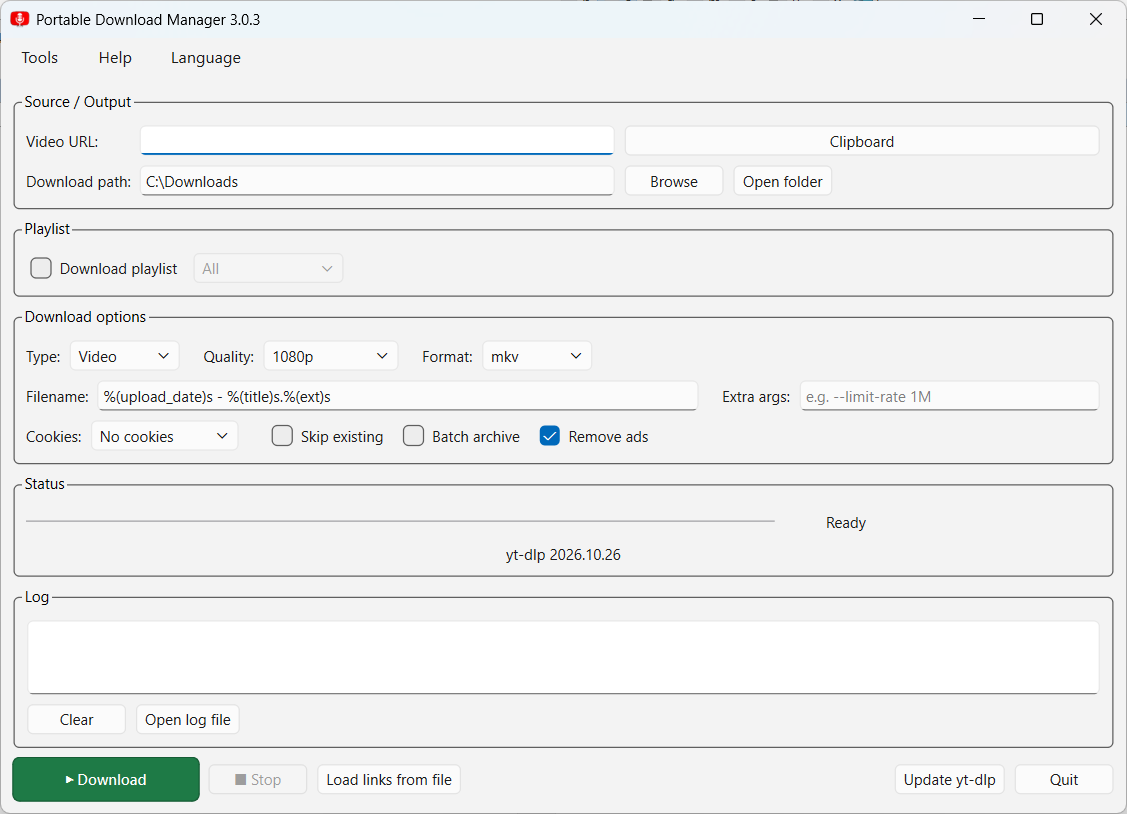
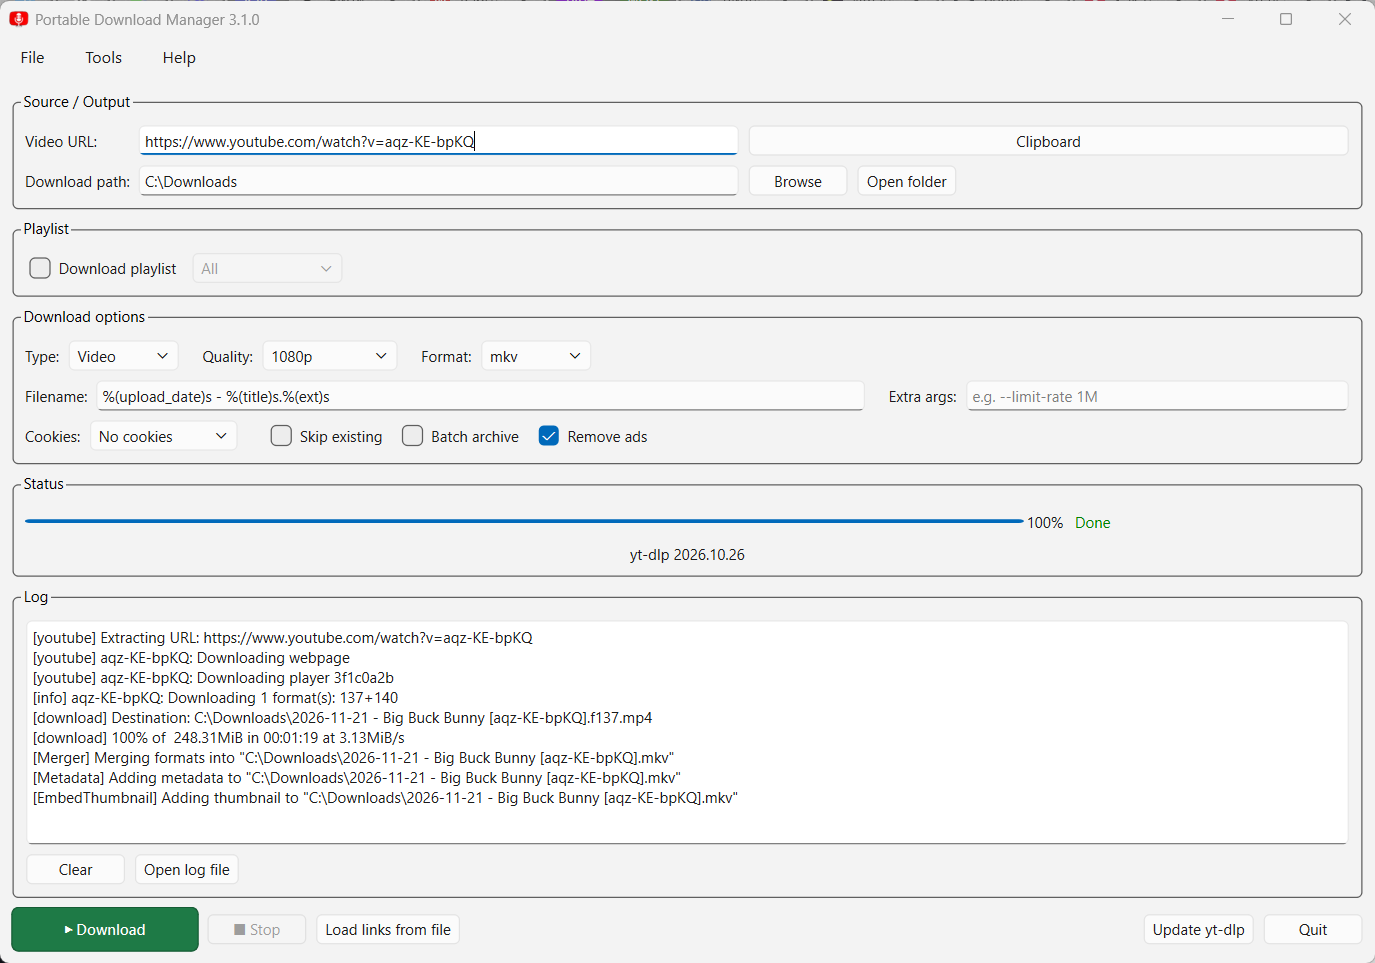
Update demo screenshot
Refresh docs/demo.png from the current 3.1.0 UI: populated URL, finished
download log and Done status. Adjust the landing page image dimensions.

diff --git a/docs/index.html b/docs/index.html
@@ -34,7 +34,7 @@
   <section class="demo" id="demo">
     <div class="wrap">
       <h2 data-i18n="demo_title">YouTube Download Manager</h2>
-      <img src="demo.png" alt="Portable Download Manager demo" class="demo__image" width="1127" height="814" loading="lazy" data-i18n-alt="demo_image_alt">
+      <img src="demo.png" alt="Portable Download Manager demo" class="demo__image" width="1375" height="963" loading="lazy" data-i18n-alt="demo_image_alt">
     </div>
   </section>
   
